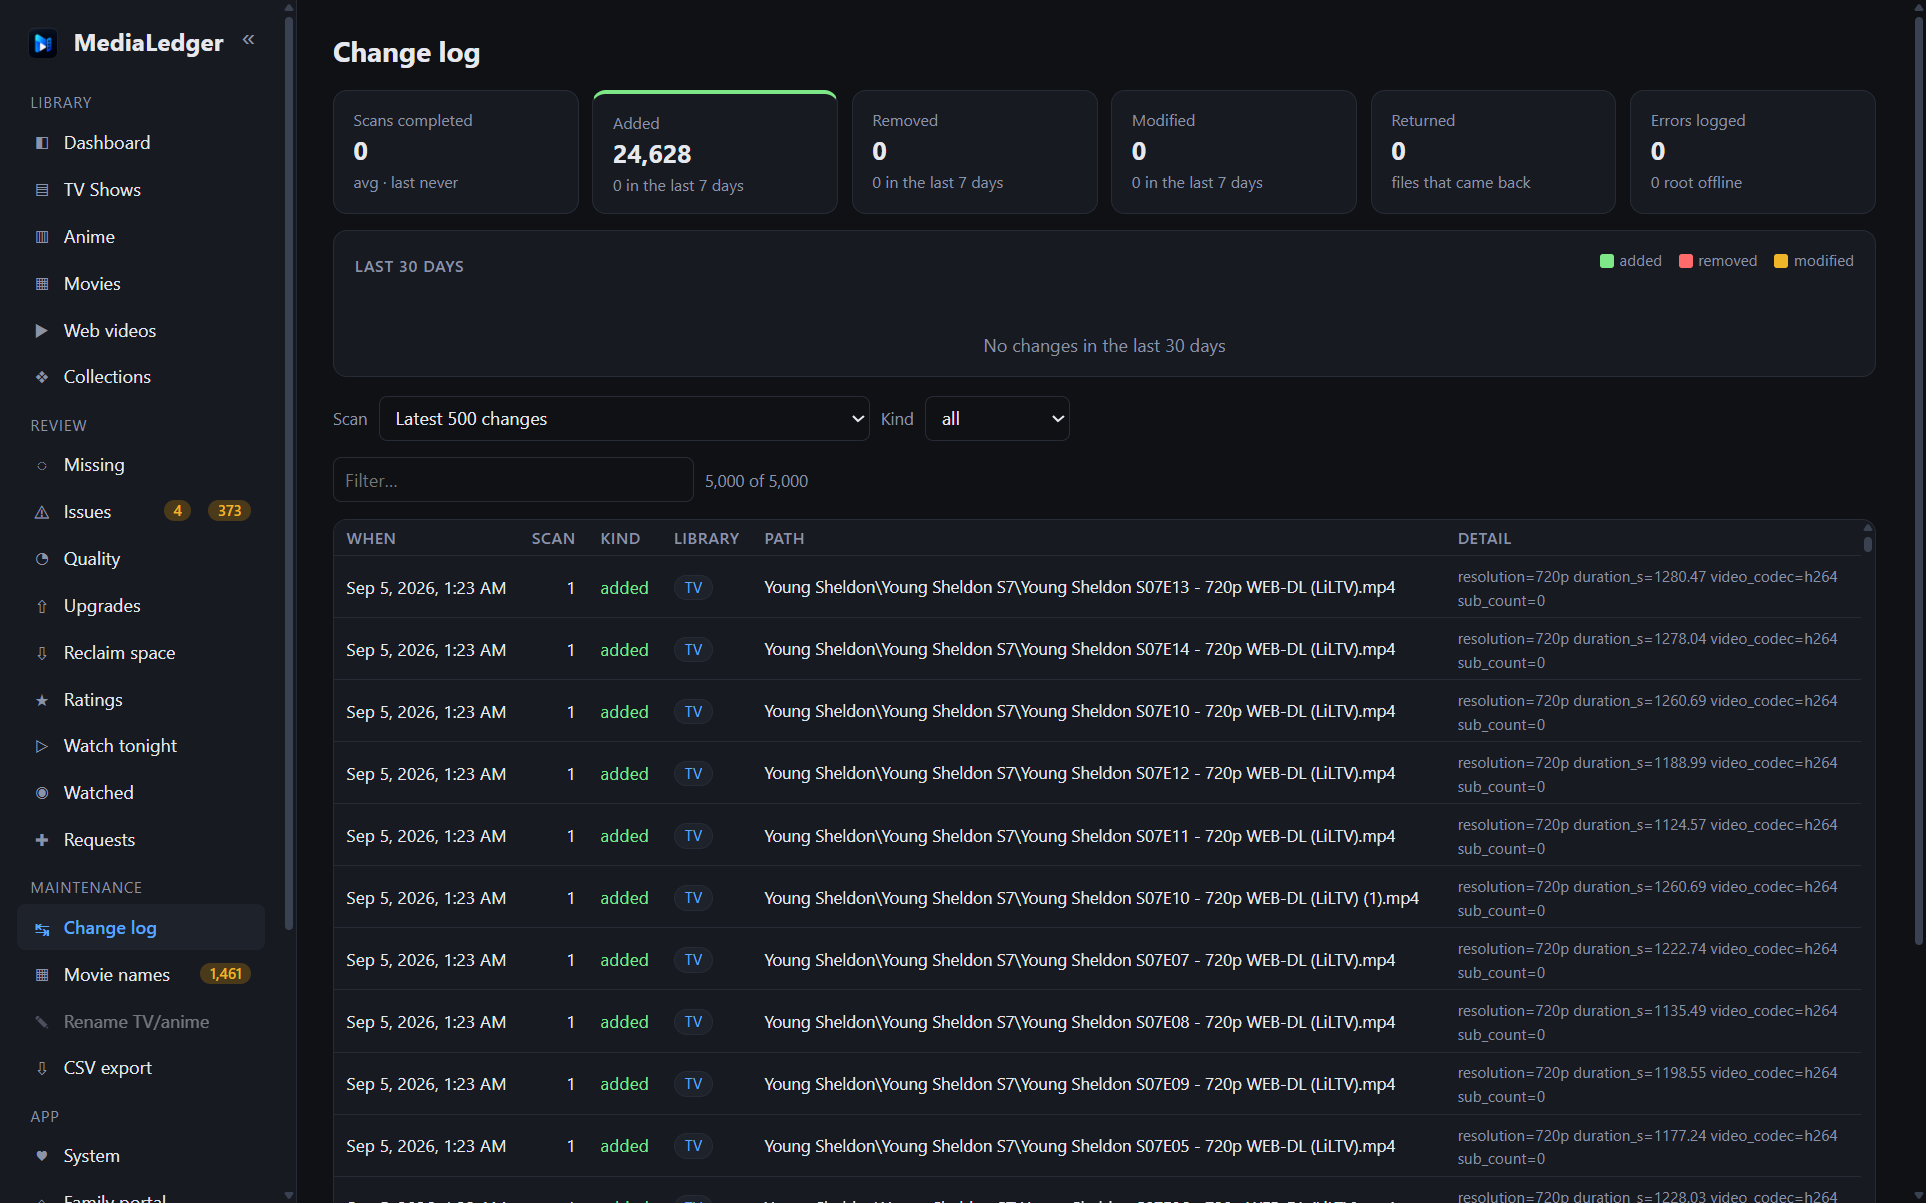
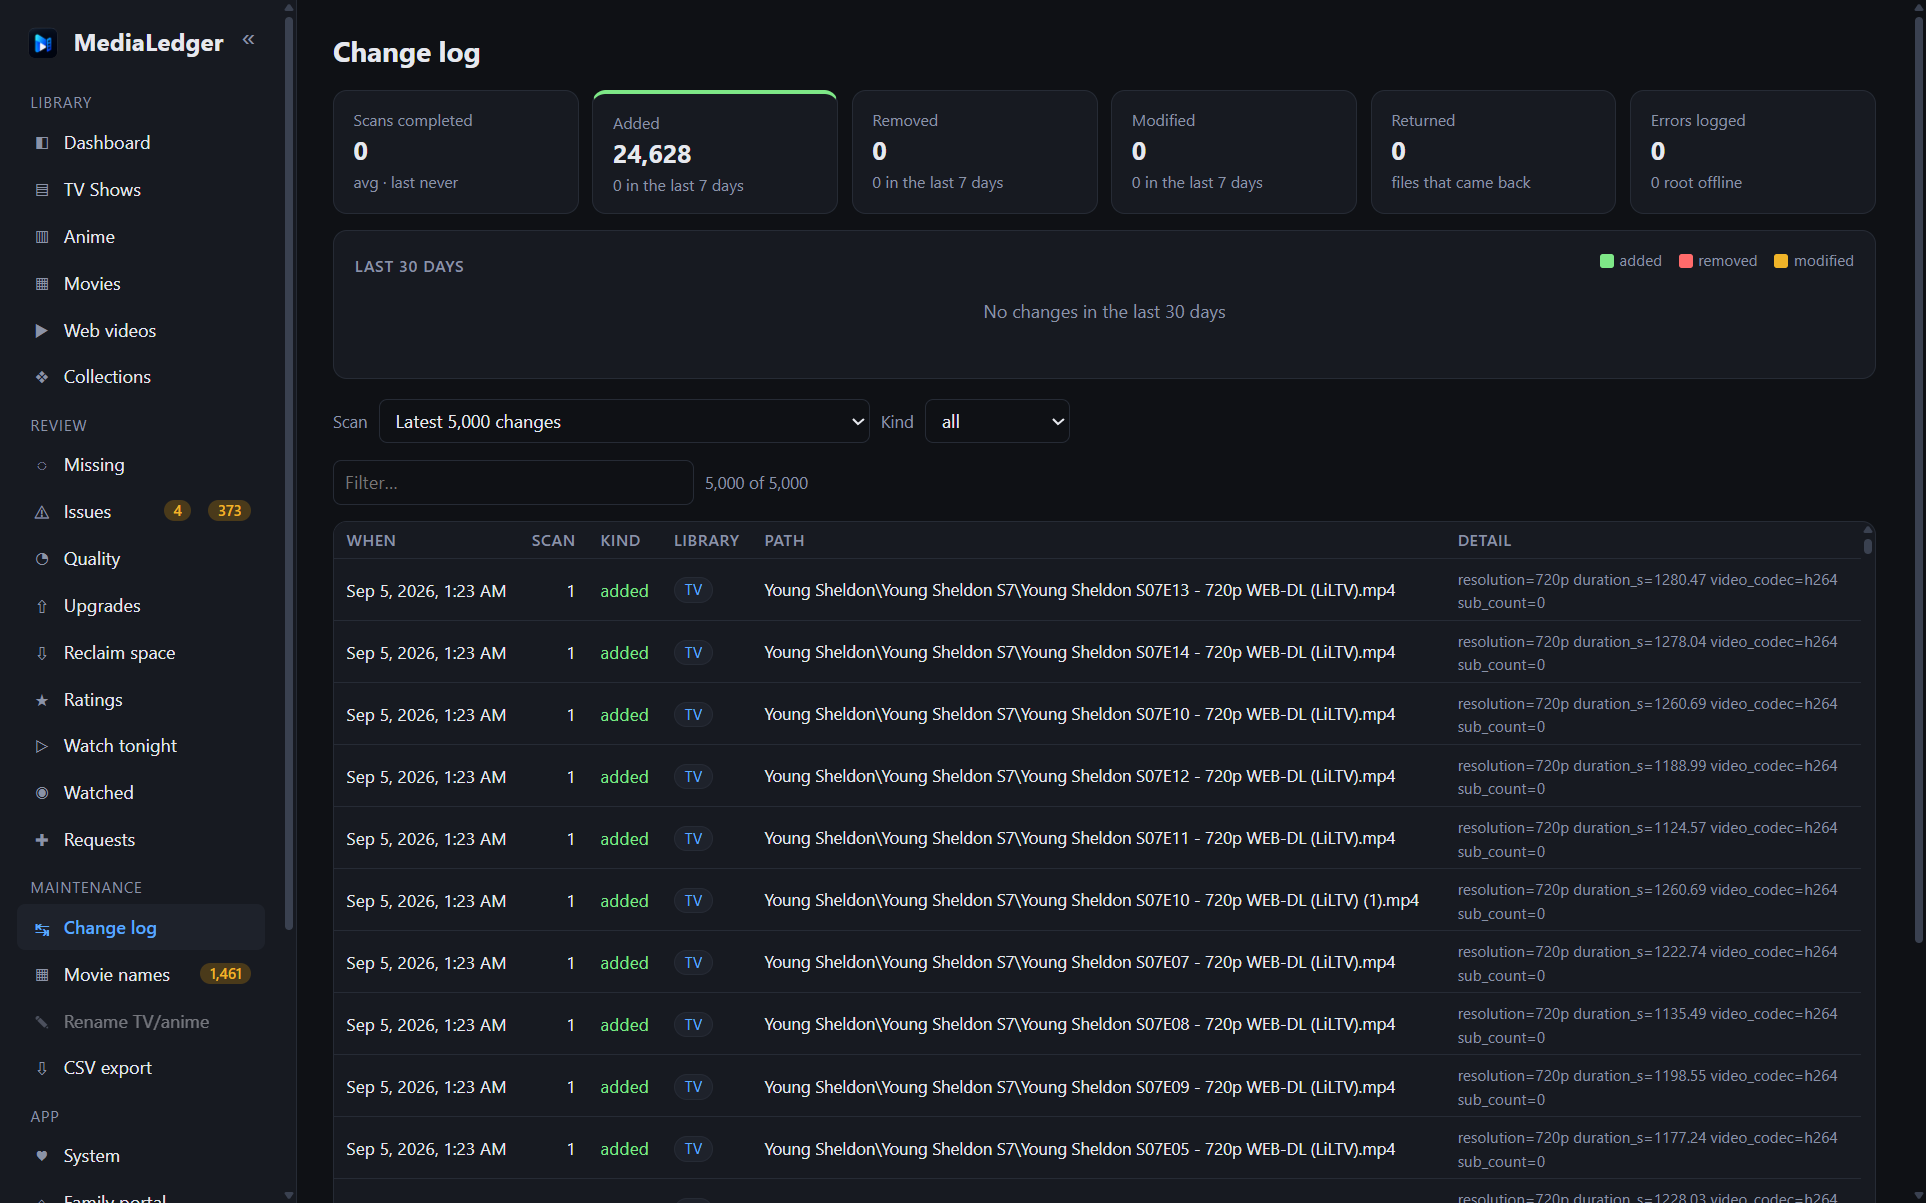
Keep the Change log chart inside its card and name the list limit correctly

diff --git a/src/renderer/views-review.js b/src/renderer/views-review.js
@@ -131,7 +131,7 @@ views.changes = async () => {
     </div>
     <div class="card" style="margin-top:12px"><h3>Last 30 days <span class="right legend"><span><i class="added"></i>added</span><span><i class="removed"></i>removed</span><span><i class="modified"></i>modified</span></span></h3>
       <div class="spark">${st.perDay.length ? st.perDay.map(d => `<div title="${d.day}: +${d.added} −${d.removed} ~${d.modified}"><i class="added" style="height:${Math.round(d.added / maxDay * 44)}px"></i><i class="modified" style="height:${Math.round(d.modified / maxDay * 44)}px"></i><i class="removed" style="height:${Math.round(d.removed / maxDay * 44)}px"></i></div>`).join('') : '<div class="empty" style="width:100%">No changes in the last 30 days</div>'}</div></div>
-    <div class="toolbar" style="margin-top:14px"><label class="muted small">Scan</label><select id="scanSel"><option value="">Latest 500 changes</option>${scans.map(s => `<option value="${s.id}">#${s.id} · ${fmtDate(s.started)} · ${s.status} · ${s.trigger} · +${s.added} −${s.removed} ~${s.modified}</option>`).join('')}</select><label class="muted small">Kind</label><select id="kindSel"><option value="">all</option>${['added', 'removed', 'modified', 'returned', 'probe_error', 'root_offline', 'warning'].map(k => `<option>${k}</option>`).join('')}</select><span class="grow"></span></div><div id="scanSummary"></div><div id="changesTable"></div>`;
+    <div class="toolbar" style="margin-top:14px"><label class="muted small">Scan</label><select id="scanSel"><option value="">Latest 5,000 changes</option>${scans.map(s => `<option value="${s.id}">#${s.id} · ${fmtDate(s.started)} · ${s.status} · ${s.trigger} · +${s.added} −${s.removed} ~${s.modified}</option>`).join('')}</select><label class="muted small">Kind</label><select id="kindSel"><option value="">all</option>${['added', 'removed', 'modified', 'returned', 'probe_error', 'root_offline', 'warning'].map(k => `<option>${k}</option>`).join('')}</select><span class="grow"></span></div><div id="scanSummary"></div><div id="changesTable"></div>`;
   const load = async () => {
     const scanId = Number($('#scanSel').value) || null;
     const kind = $('#kindSel').value;

diff --git a/src/renderer/views-app.js b/src/renderer/views-app.js
@@ -455,11 +455,11 @@ const fmtRate = (bps) => bps == null ? '—' : bps >= 1e6 ? (bps / 1e6).toFixed(
 const fmtUptime = (s) => { const d = Math.floor(s / 86400), h = Math.floor(s % 86400 / 3600), m = Math.floor(s % 3600 / 60); return d ? `${d}d ${h}h` : h ? `${h}h ${m}m` : `${m}m`; };
 function sparkline(values, { max = null, min = 0 } = {}) {
   const v = values.filter(x => x != null);
-  if (v.length < 2) return '<svg class="spark" viewBox="0 0 100 44" preserveAspectRatio="none"></svg>';
+  if (v.length < 2) return '<svg class="sparkline" viewBox="0 0 100 44" preserveAspectRatio="none"></svg>';
   const hi = max != null ? max : Math.max(...v) * 1.05 || 1, lo = min;
   const pts = values.map((x, i) => x == null ? null : [i / (values.length - 1) * 100, 42 - (Math.min(Math.max(x, lo), hi) - lo) / (hi - lo) * 40]).filter(Boolean);
   const d = pts.map((p, i) => (i ? 'L' : 'M') + p[0].toFixed(1) + ' ' + p[1].toFixed(1)).join(' ');
-  return `<svg class="spark" viewBox="0 0 100 44" preserveAspectRatio="none"><path class="fill" d="${d} L${pts[pts.length - 1][0].toFixed(1)} 44 L${pts[0][0].toFixed(1)} 44 Z"></path><path d="${d}"></path></svg>`;
+  return `<svg class="sparkline" viewBox="0 0 100 44" preserveAspectRatio="none"><path class="fill" d="${d} L${pts[pts.length - 1][0].toFixed(1)} 44 L${pts[0][0].toFixed(1)} 44 Z"></path><path d="${d}"></path></svg>`;
 }
 const meter = (pct, warn = 80, bad = 92) => `<div class="meter ${pct >= bad ? 'bad' : pct >= warn ? 'warn' : ''}"><div style="width:${Math.min(100, pct || 0)}%"></div></div>`;
 views.system = async () => {

diff --git a/src/renderer/styles.css b/src/renderer/styles.css
@@ -219,9 +219,9 @@ td .sub { display: block; color: var(--muted); font-size: 11px; line-height: 1.2
 .seasons-edit { display: grid; grid-template-columns: repeat(auto-fill, minmax(120px, 1fr)); gap: 6px; }
 .seasons-edit label { display: flex; gap: 6px; align-items: center; font-size: 12px; color: var(--muted); }
 .seasons-edit input { width: 64px; }
-.spark { width: 100%; height: 44px; display: block; }
-.spark path { fill: none; stroke: var(--accent); stroke-width: 1.5; }
-.spark .fill { fill: var(--accent); opacity: .12; stroke: none; }
+.sparkline { width: 100%; height: 44px; display: block; }
+.sparkline path { fill: none; stroke: var(--accent); stroke-width: 1.5; }
+.sparkline .fill { fill: var(--accent); opacity: .12; stroke: none; }
 .meter { height: 6px; background: var(--line); border-radius: 3px; overflow: hidden; margin-top: 6px; }
 .meter > div { height: 100%; background: var(--accent); }
 .meter.warn > div { background: var(--warn); }

diff --git a/CHANGELOG.md b/CHANGELOG.md
@@ -8,6 +8,15 @@ adheres to [Semantic Versioning](https://semver.org/spec/v2.0.0.html).
 
 ### Added
 
+## [3.3.1] - 2026-10-31
+
+### Fixed
+
+- The Change log's *Last 30 days* chart drew its bars as full-width blocks
+  over the filters. A later stylesheet rule for the System page's
+  sparklines shared the same class name; the sparklines now have their own.
+- The scan selector said "Latest 500 changes" while the list held 5,000.
+
 ## [3.3.0] - 2026-10-31
 
 ### Added
